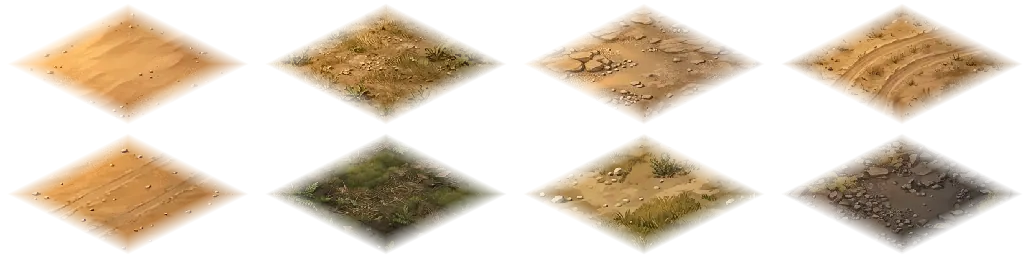
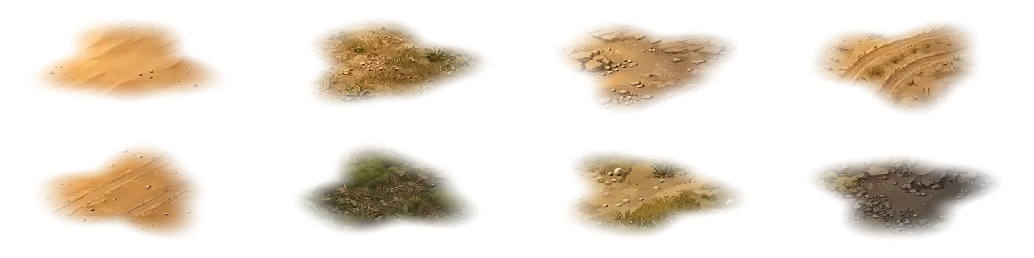
Map ground 1c: decals as soft irregular blobs placed off the grid, fainter; bake one cell per frame (9-16 ms each)

Changed region(s): [[0.0, 0.5271, 0.9903, 0.9922], [0.0, 0.031, 0.9903, 0.4651]]

diff --git a/apps/client/src/scene/world/ground-decals.ts b/apps/client/src/scene/world/ground-decals.ts
@@ -78,12 +78,12 @@ export const decalsFor = (
       const frames = DECAL_KIND_FRAMES[kind];
       if (frames.length === 0) continue;
       out.push({
-        x: x + 0.5 + (hash01(x, y, salt + 2) - 0.5) * 0.6,
-        y: y + 0.5 + (hash01(x, y, salt + 3) - 0.5) * 0.6,
+        x: x + 0.5 + (hash01(x, y, salt + 2) - 0.5) * 0.9,
+        y: y + 0.5 + (hash01(x, y, salt + 3) - 0.5) * 0.9,
         frame: frames[Math.floor(hash01(x, y, salt + 4) * frames.length)] ?? frames[0] ?? 0,
         scale: 2 + 2 * hash01(x, y, salt + 5),
         flip: hash01(x, y, salt + 6) < 0.5,
-        alpha: 0.5 + 0.4 * hash01(x, y, salt + 7),
+        alpha: 0.35 + 0.3 * hash01(x, y, salt + 7),
       });
     }
   }

diff --git a/apps/client/src/scene/world/ground-bake.ts b/apps/client/src/scene/world/ground-bake.ts
@@ -10,7 +10,7 @@ import { makeGrainTiles } from "./ground-grain.ts";
 /** Texture pixels per world px. Half resolution: the ground is soft by design, and this is a quarter of a full-size bake. */
 export const BAKE_SCALE = 0.5;
 /** Cells baked per frame at most, so a fresh map fills in over a few frames instead of one long stall. */
-export const BAKE_PER_FRAME = 2;
+export const BAKE_PER_FRAME = 1;
 
 const RIM_TOP = 0x4a3a2c;
 const RIM_SIDE = 0x3a2d22;
